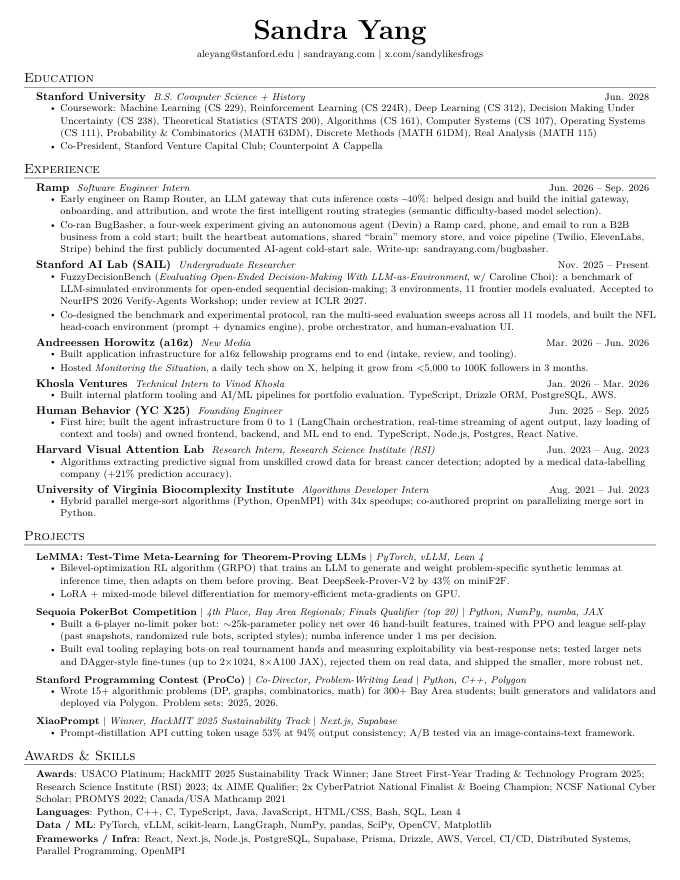
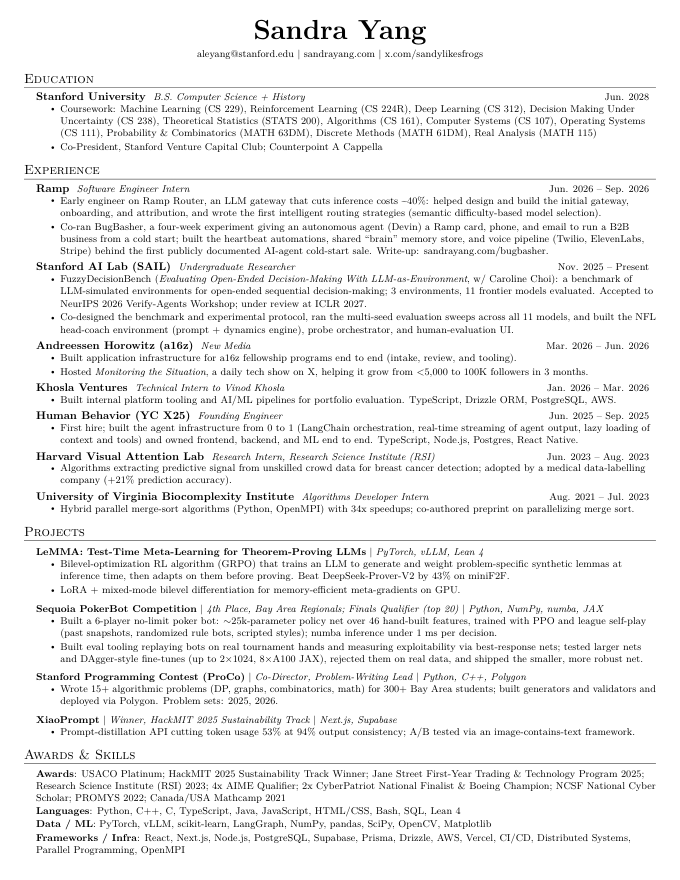
Resume: tighten UVA line

Changed region(s): [[0.0309, 0.1227, 0.9574, 0.9818], [0.8029, 0.9511, 0.9265, 0.9818], [0.0926, 0.092, 0.1235, 0.1227]]

diff --git a/resume/resume.tex b/resume/resume.tex
@@ -122,7 +122,7 @@
     \resumeSubheading
       {University of Virginia Biocomplexity Institute}{Algorithms Developer Intern}{Aug. 2021 -- Jul. 2023}
       \resumeItemListStart
-        \resumeItem{Hybrid parallel merge-sort algorithms (Python, OpenMPI) with 34x speedups; co-authored \href{https://arxiv.org/abs/2211.16479}{preprint} on parallelizing merge sort in Python.}
+        \resumeItem{Hybrid parallel merge-sort algorithms (Python, OpenMPI) with 34x speedups; co-authored \href{https://arxiv.org/abs/2211.16479}{preprint} on parallelizing merge sort.}
       \resumeItemListEnd
 
   \resumeSubHeadingListEnd
